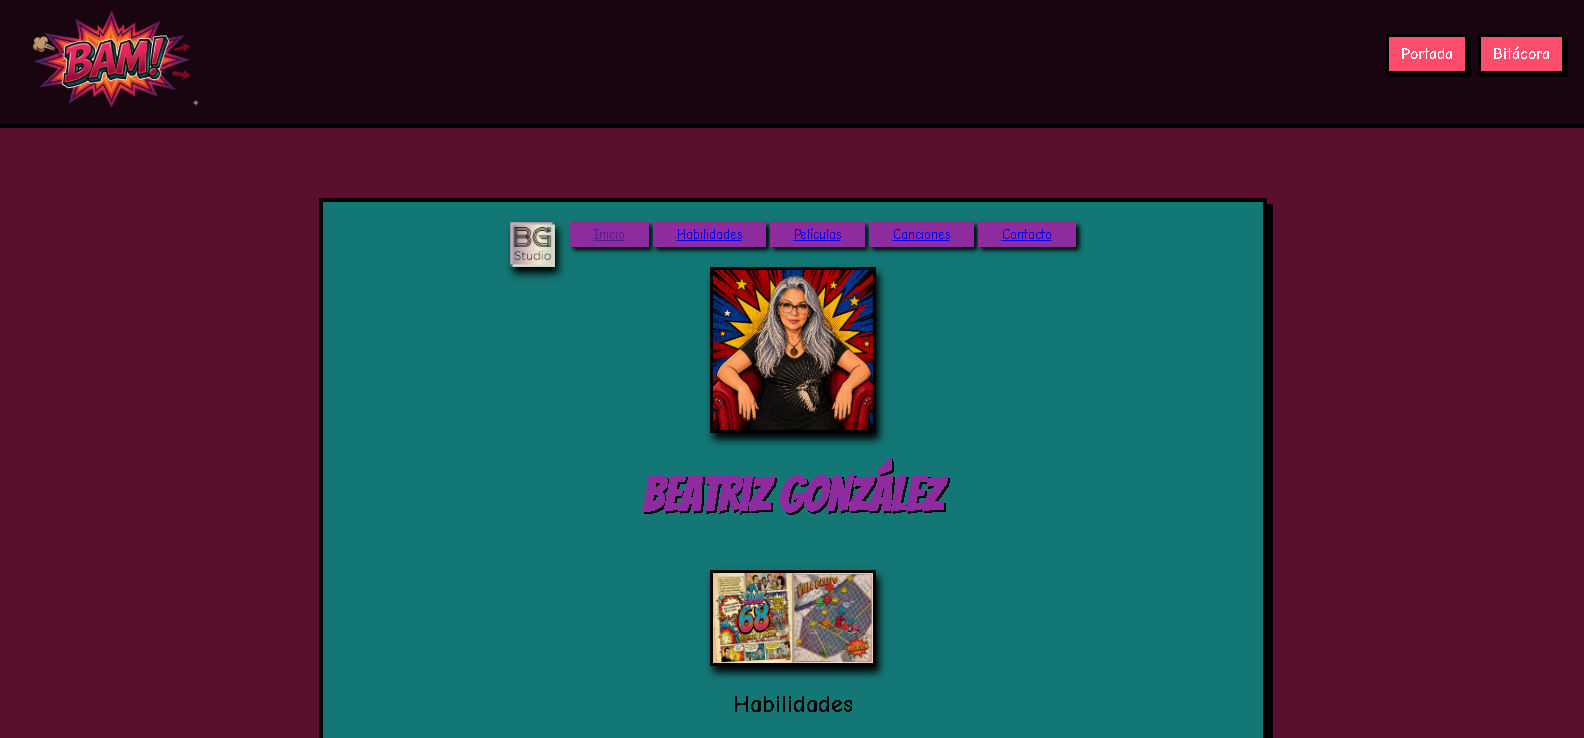
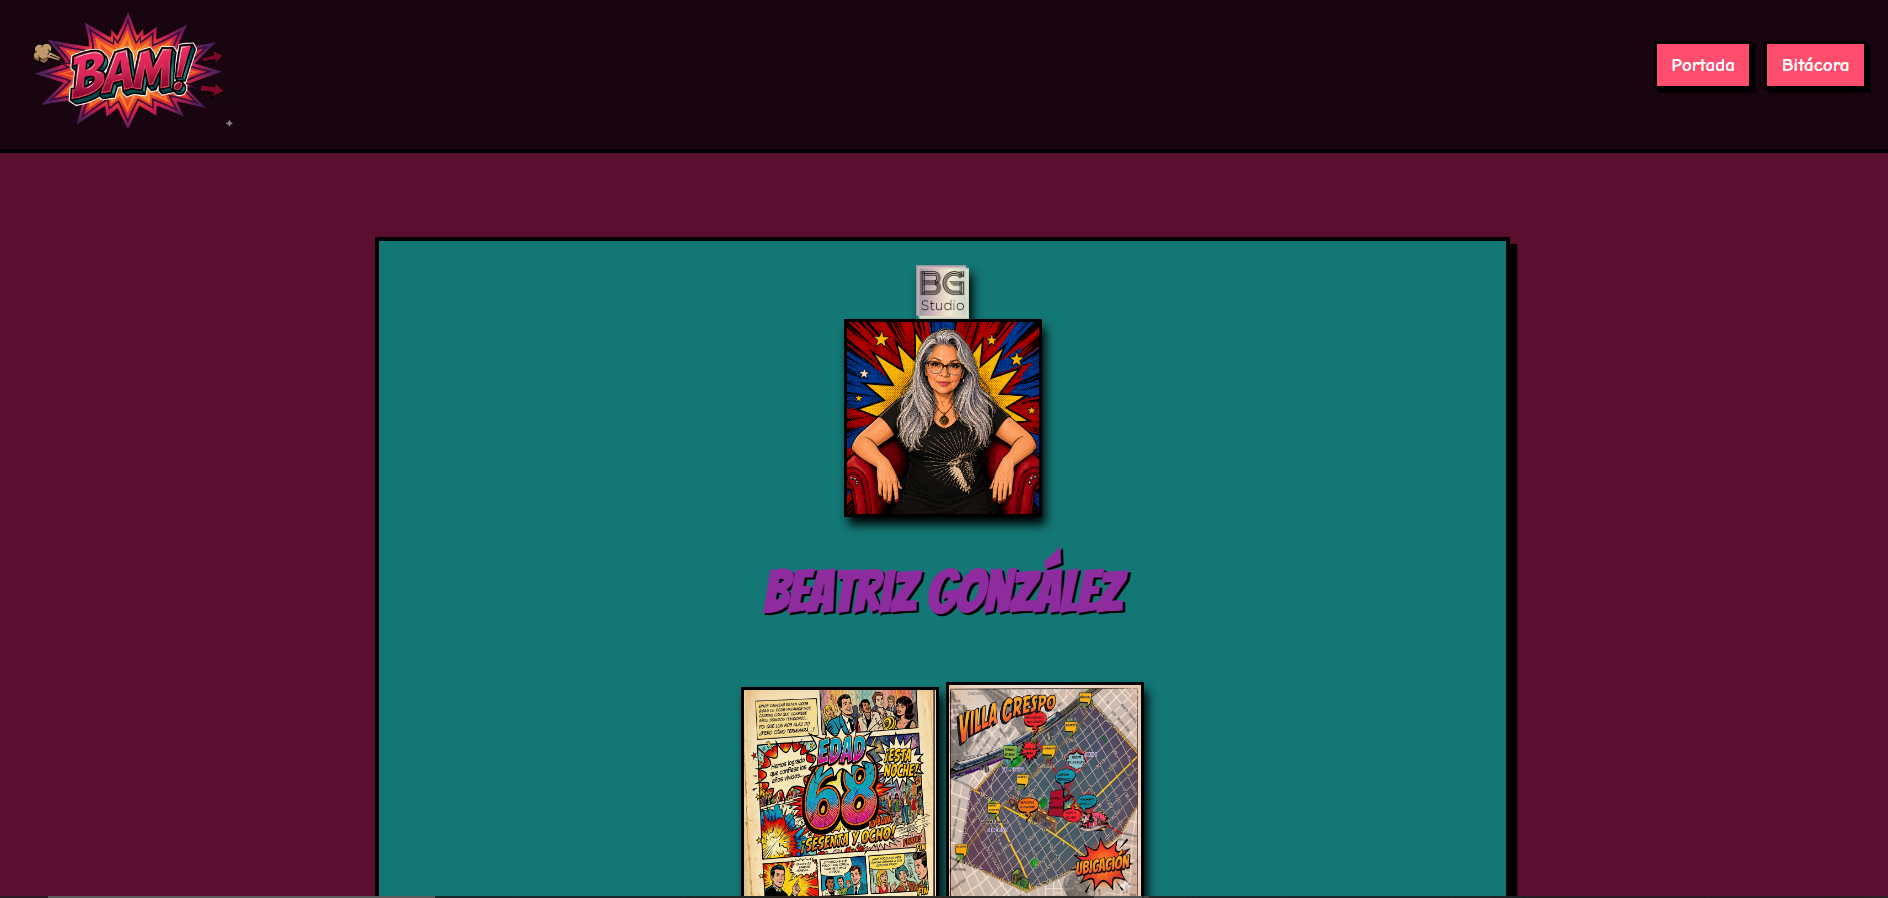
Commit de los cambios

Changed region(s): [[0.0, 0.2493, 1.0, 1.0], [0.0, 0.0, 1.0, 0.187], [0.8662, 0.0623, 0.9899, 0.0935]]

diff --git a/beatriz.html b/beatriz.html
@@ -27,20 +27,11 @@
     <main class="beatriz-main">
 
         <section class="beatriz-card">
-        
+            
             <div class="container logo-nav-container">
             <img src="img/img-bet/LogoBG.png" alt="Logo BG" class="logo-img slide-in-fwd-top">
             
-            <nav class="navigation">
-                <ul>
-                    <li><a href="beatriz.html">Inicio</a></li>
-                    <li><a href="#habilidades">Habilidades</a></li>
-                    <li><a href="#peliculas">Películas</a></li>
-                    <li><a href="#canciones">Canciones</a></li>
-                    <li><a href="#contacto">Contacto</a></li>
-
-                </ul>
-            </nav>
+            
         </div>
             
             <!-- FOTO -->
@@ -48,8 +39,14 @@
             <h1 id="aboutme"class="beatriz-nombre">Beatriz González</h1>
             <!-- DATOS -->
             <br>
-            <img src="img/img-bet/edad y lugar.png" alt="Edad y Lugar" class="beatriz-img">
-         </div>
+              <!-- Cajas de información -->
+            <div class="flex flex-col md:flex-row justify-center gap-6      mt-12    w-full max-w-2xl px-4 md:px-0">
+            <img src="img\img-bet\edad.png" alt="Edad 68" class="beatriz-img">
+            
+            <img src="img\img-bet\lugar.png" alt="Ubicación CABA" class="beatriz-img">
+            </div>
+            
+        </div>
               
  <!-- =========================================================
          SECCIÓN HABILIDADES
@@ -155,9 +152,12 @@
             
             <div class="pelicula-info">
               <h3 class="pelicula-titulo">Lucy</h3>
-              <p class="pelicula-anio">2014</p>
-              <p class="pelicula-descripcion">
+                 <p class="pelicula-anio">2014</p>
+                 <div class="pelicula-descripcion">
                 Lucy, una joven obligada a ejercer de mula de una nueva y potente droga, adquiere de repente enormes poderes sobrenaturales cuando la bolsa de la droga se rompe y los narcóticos entran en contacto con su cuerpo. Entonces, su cerebro comienza a aumentar la capacidad de uso hasta poder ser utilizado al 100%, convirtiéndose en una máquina letal con habilidades extraordinarias. (FILMAFFINITY)
+               </div>
+             
+                              
               </p>
 
             </div>
@@ -169,9 +169,9 @@
             <div class="pelicula-info">
               <h3 class="pelicula-titulo">Un don excepcional</h3>
               <p class="pelicula-anio">2017</p>
-              <p class="pelicula-descripcion">
+              <div class="pelicula-descripcion">
                 Tras el fallecimiento de su hermana, Frank Adler (Chris Evans) se hizo cargo de su sobrina Mary (Mckenna Grace), y ambos viven juntos en un pueblo costero de Florida. La niña tiene ya 7 años, y demuestra tener un asombroso talento para las matemáticas. La situación se complica cuando Frank deberá luchar por la custodia de la niña, pues la abuela cree que debe irse a vivir con ella a Massachusetts y aprovechar su don con los números. (FILMAFFINITY)
-              </p>
+              </div>
             </div>
           </article>
 
@@ -181,9 +181,9 @@
             <div class="pelicula-info">
               <h3 class="pelicula-titulo">Figuras ocultas</h3>
               <p class="pelicula-anio">2016</p>
-              <p class="pelicula-descripcion">
+              <div class="pelicula-descripcion">
                 La increíble historia verdadera de tres brillantes mujeres afroamericanas que trabajaron en la NASA, que sirvieron de cerebros detrás de uno de las más grandes operaciones en la historia: el lanzamiento en órbita del astronauta John Glenn.  Estas mujeres cruzaron todas las líneas de género, raza y profesionales con su brillantez y su deseo por soñar en grande, más allá de cualquier cosa lograda antes por la raza humana, y eso las colocó firmemente en la historia como auténticas heroínas estadounidenses.
-              </p>
+              </div>
             </div>
           </article>
 
@@ -234,102 +234,7 @@
                 </li>
             </ul>
 
-<!-- =========================================================
-         SECCIÓN CONTACTO.
-    ========================================================= -->        
-            <h2 id="contacto">Contacto</h2>
-                <form action="bet_show_data.html" target="_blank">
-             
-
-                    <fieldset>
-                        <legend>DATOS PERSONALES</legend>
-                        <div class="logo-nav-container">
-                            <div class="col40">
-                                <label for="fname">Nombre</label><br>
-                                <input type="text" id="fname" name="fname" required=""
-                                    placeholder="Ingrese su nombre aqui...">
-                                <br>
-                            </div>
-                            <div class="col40">
-                                <label for="lname">Apellido</label><br>
-                                <input type="text" id="lname" name="lname" required=""
-                                    placeholder="Ingrese su apellido aqui...">
-                                <br>
-                            </div>
-                           
-                        </div>
-                    </fieldset>
-
-                    <fieldset>
-                        <legend>DIRECCIÓN</legend>
-                        <div class="logo-nav-container">
-                            <div class="col40">
-                                <label for="street">Calle</label><br>
-                                <input type="text" name="address" id="address"
-                                    placeholder="Ingrese su dirección aqui..."> <br>
-                            </div>
-                            <div class="col20">
-                                <label for="number">Número</label><br>
-                                <input type="number" name="number" id="number" placeholder="Nro"> <br>
-                            </div>
-                        </div>    
-                        <div class="logo-nav-container">
-                            <div class="col40">
-                                <label for="city">Ciudad</label> <br>
-                                <input type="text" name="city" id="city" value="C.A.B.A."> <br>
-                            </div>
-                            <div class="col20">
-                                <label for="zipcode">Código Postal</label> <br>
-                                <input type="text" name="zipcode" id="zipcode"
-                                    placeholder="C.P.">
-                            </div>
-             
-                           
-                          </div>    
-                        </div>
-                    </fieldset>
-                    <fieldset>
-                        <legend> OTROS DATOS</legend>
-                        <div class="logo-nav-container">
-                            <div class="col40">
-                                <label for="telefono">Telefono</label> <br>
-                                <input type="tel" name="telefono" id="telefono"
-                                    placeholder="ingrese su teléfono aqui ....">
-                            </div>
-                            <div class="col40">
-                                <label for="mail">Mail</label> <br>
-                                <input type="email" name="email" id="email" placeholder="ingrese su mail aqui"
-                                    required="" pattern="[a-z0-9._%+-]+@[a-z0-9.-]+\.[a-z]{2,}$">
-                            </div>
-                           
-                        </div>
-                    </fieldset>
-                        <fieldset>
-                            <legend>COMENTARIOS</legend>
-                            <div class="col80">
-                                
-                            
-                                 <label for="mensaje">Mensaje</label> 
-                                   <br>
-                                  <textarea name="comentarios" id="mensaje" maxlength="300" placeholder="Escribe tu comentario aquí..."></textarea>
-                                   <div id="contador-container">
-                                      <span id="caracteres">0</span>/300 caracteres
-                                   </div>
-                                </div>
-
-
-                            </div>  
-                        </fieldset>
-                    </div>
-                        <div class="col80">
-                             <input class="siguiente" type="submit" value="Enviar">
-                        </div>
-                    </div>
-
-                    <br><br>
-                
-            </form>
-             
+        
         </section>
 
     </main>

diff --git a/css/beatriz.css b/css/beatriz.css
@@ -48,31 +48,6 @@
     max-width: 100%;
 }
 
-/* 3. Inputs y Textarea fluidos */
-input[type="text"],
-input[type="number"],
-input[type="date"],
-input[type="email"],
-input[type="tel"],
-textarea {
-    width: 100%; /* El input ocupa todo el ancho de su columna */
-    box-sizing: border-box; /* Incluye el padding en el ancho */
-    padding: 8px;
-    border: 2px solid var(--negro);
-}
-
-/* Ajuste de inputs para que no se salgan */
-input[type="text"], 
-input[type="email"], 
-input[type="tel"], 
-input[type="date"], 
-textarea {
-    width: 100%; 
-    padding: 10px;
-    border: 3px solid var(--negro);
-    font-family: inherit;
-}
-
 .logo-img{
     width: 5%;
     height: 5%;
@@ -119,12 +94,7 @@ textarea {
 	-webkit-animation: slide-in-fwd-top 0.4s ;
 	        animation: slide-in-fwd-top 0.4s ;
 }
-/* ----------------------------------------------
- * Generated by Animista on 2026-4-27 7:11:18
- * Licensed under FreeBSD License.
- * See http://animista.net/license for more info. 
- * w: http://animista.net, t: @cssanimista
- * ---------------------------------------------- */
+
 
 /**
  * ----------------------------------------
@@ -159,12 +129,6 @@ textarea {
 	-webkit-animation: roll-in-left 0.6s ease-out both;
 	        animation: roll-in-left 0.6s ease-out both;
 }
-/* ----------------------------------------------
- * Generated by Animista on 2026-4-27 7:28:3
- * Licensed under FreeBSD License.
- * See http://animista.net/license for more info. 
- * w: http://animista.net, t: @cssanimista
- * ---------------------------------------------- */
 
 /**
  * ----------------------------------------
@@ -276,9 +240,10 @@ textarea {
   transition: transform var(--transition), box-shadow var(--transition);
 }
 
-.pelicula-card:hover {
-  transform: translateY(-5px);
-  box-shadow: var(--shadow-hover);
+.pelicula-card:hover .beatriz-tooltip {
+    visibility: visible;
+    opacity: 1;
+    transform: translateX(-50%) translateY(6px);
 }
 
 .pelicula-imagen {
@@ -311,6 +276,52 @@ textarea {
   color: var(--color-slate-600);
   line-height: 1.65;
 }
+.tooltip-text {
+    font-family: 'Comic Neue', cursive;
+    font-size: 0.9rem;
+    visibility: hidden;
+    position: absolute;
+    background-color: rgba(255, 255, 255, 0.96);
+    color: var(--negro);
+    width: calc(100% - 24px);
+    padding: 12px;
+    border: 3px solid var(--negro);
+    border-radius: 14px;
+    top: auto;
+    bottom: 110%;
+    left: 50%;
+    transform: translateX(-50%);
+    opacity: 0;
+    transition: opacity 0.3s ease, transform 0.3s ease;
+    z-index: 100;
+}
+.tooltip-text {
+  visibility: hidden;
+  opacity: 0;
+  width: 150px;
+  background-color: black;
+  color: white;
+  text-align: center;
+  padding: 5px;
+  border-radius: 6px;
+  
+  /* Posicionamiento: arriba y centrado */
+  position: absolute;
+  bottom: 125%; /* Aparece arriba del texto */
+  left: 50%;
+  transform: translateX(-50%); /* Centrado perfecto */
+  
+  /* Transición para suavizar la aparición */
+  transition: opacity 0.3s;
+  z-index: 1;
+}
+
+/* Mostrar tooltip al hacer hover */
+.pelicula-titulo:hover .tooltip-text {
+  visibility: visible;
+  opacity: 1;
+}
+
 
 /* ============================================================
    CONTAINER About me
@@ -454,10 +465,25 @@ textarea {
 }
 
 
-
 /* ============================================================
    RESPONSIVE
 ============================================================ */
+@media (min-width: 400px) {
+    .beatriz-card {
+        max-width: 550px;
+    }
+
+    .beatriz-nombre {
+        font-size: 2rem;
+    }
+      /* El carrusel puede ir más lento en móviles para facilitar la vista */
+    .carousel-track {
+        animation-duration: 30s;
+    }
+    .carousel-track-collage {
+        animation-duration: 35s;
+    }
+}
 
 @media (min-width: 900px) {
 
